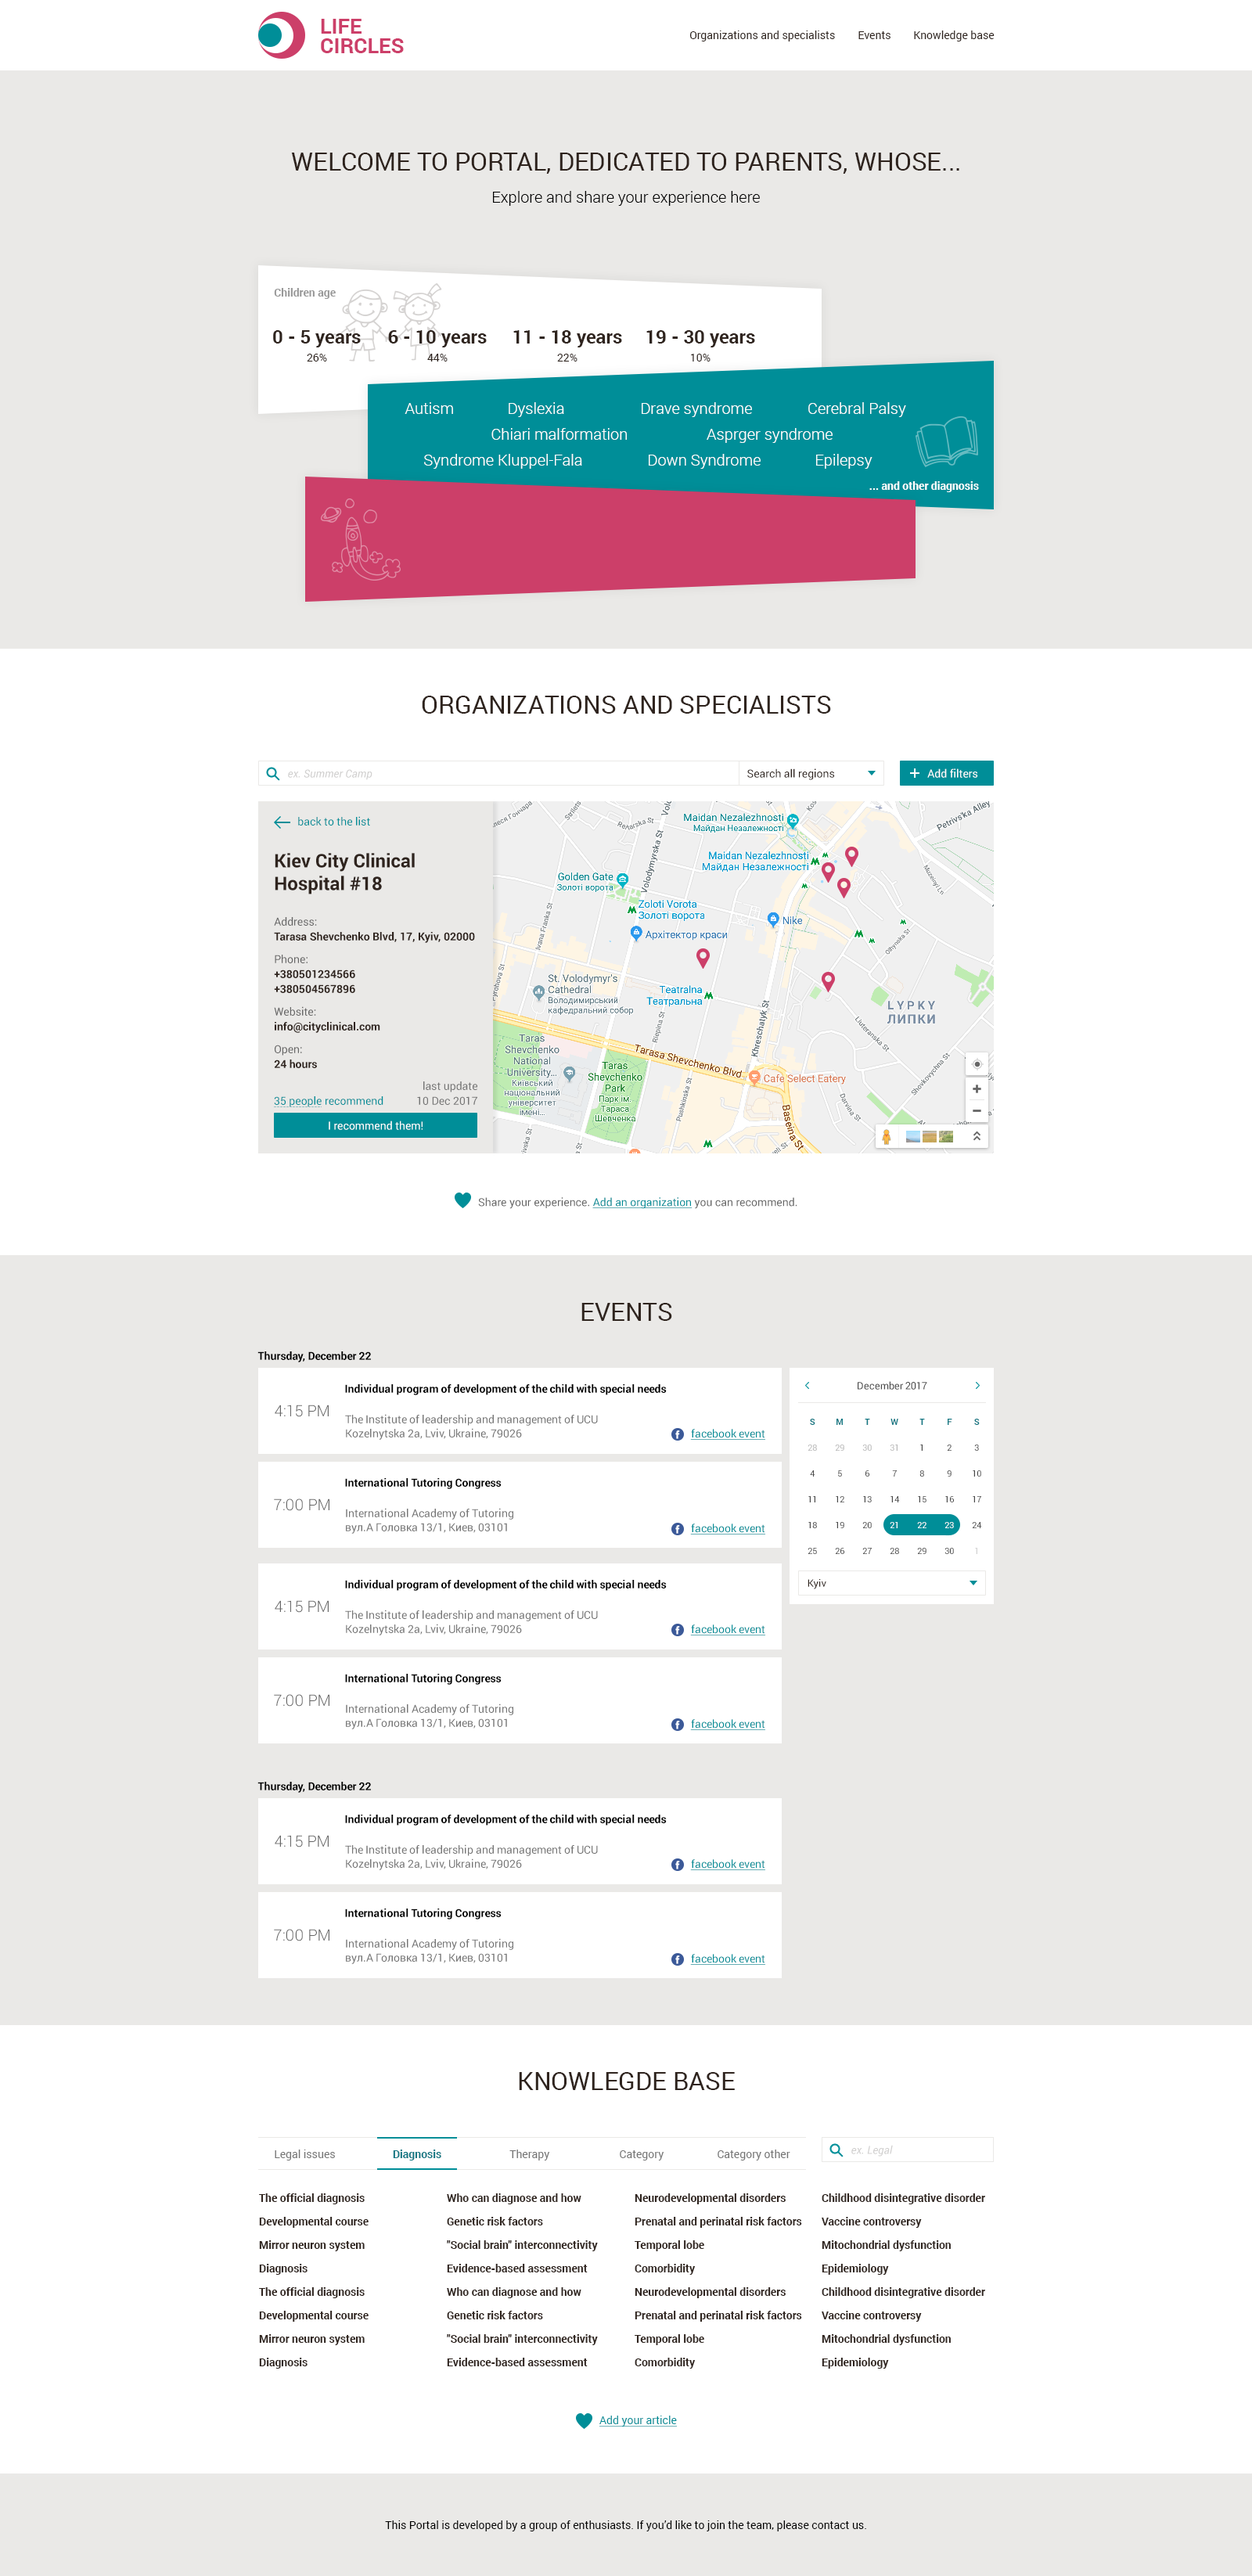
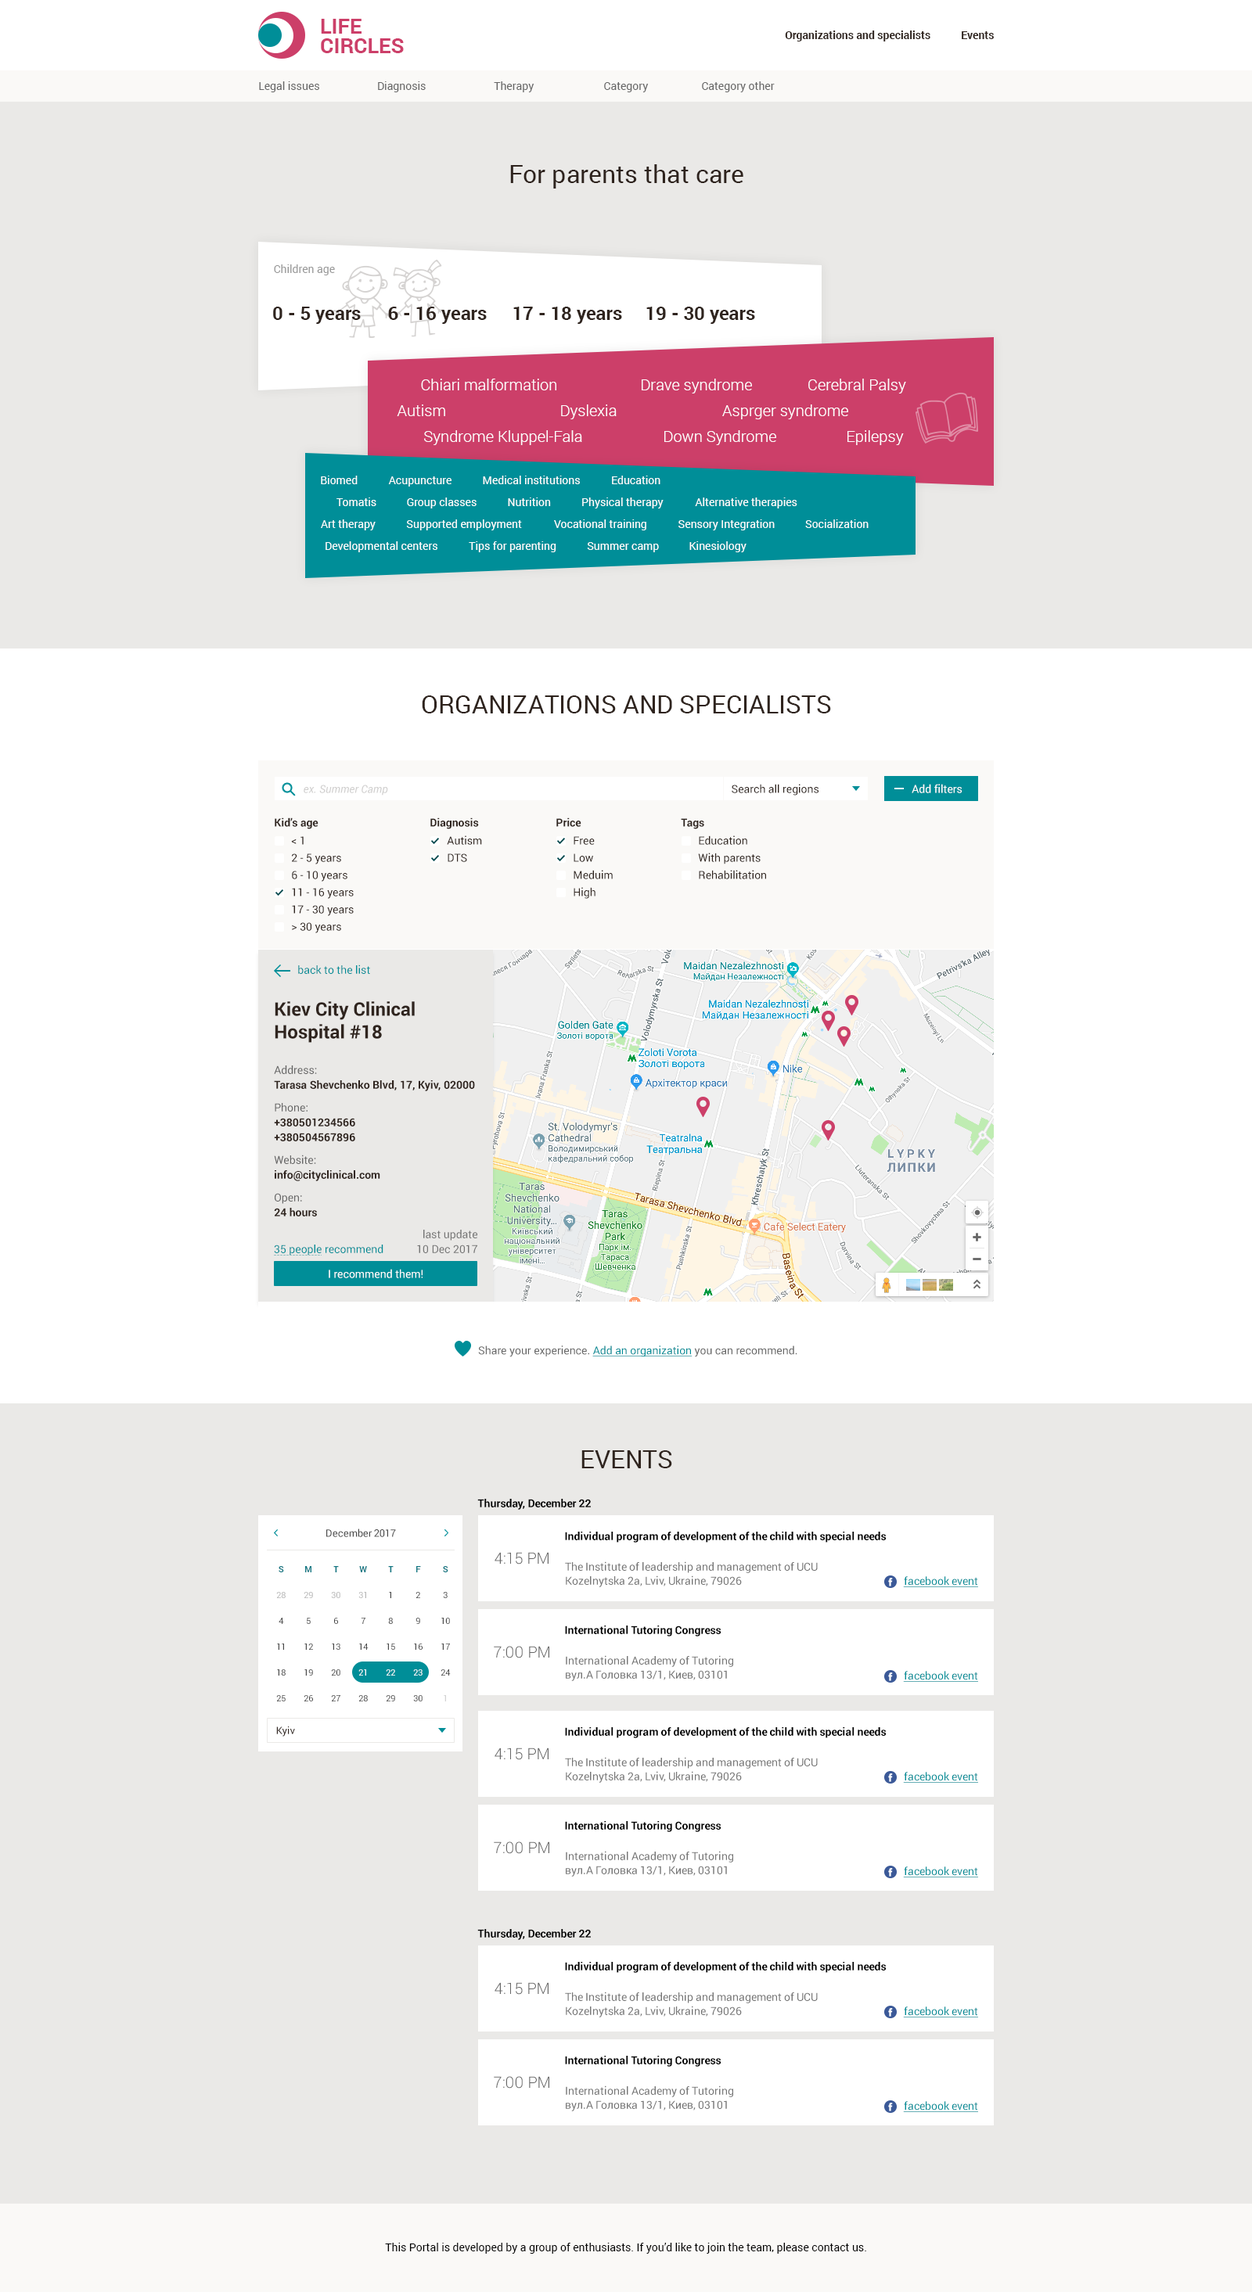
Design change: new navigation, added expanded filters

diff --git a/style.css b/style.css
@@ -8,34 +8,35 @@
 }
 
 #block01 {
-	height: 90px;
-	background-image: url('images/Special-Portal_04.png');
-}
+ 	height: 90px;
+ 	background-image: url('images/image_header.png');
+ }
 
-#block02 {
-	height: 739px;
-	background-color: rgb(234, 233, 231);
-	background-image: url('images/Special-Portal_06.png');
-}
+ #block02 {
+ 	height: 40px;
+ 	background-color: rgb(250, 249, 247);
+ 	background-image: url('images/image_navigation.png');
+ }
 
 #block03 {
-	height: 775px;
-	background-image: url('images/Special-Portal_07.png');
+	height: 699px;
+	background-color: rgb(234, 233, 231);
+	background-image: url('images/image_welcome.png');
 }
 
 #block04 {
-	height: 984px;
-	background-color: rgb(234, 233, 231);
-	background-image: url('images/Special-Portal_08.png');
+	height: 965px;
+	background-image: url('images/image_map.png');
 }
 
 #block05 {
-	height: 573px;
-	background-image: url('images/Special-Portal_09.png');
+	height: 1023px;
+	background-color: rgb(234, 233, 231);
+	background-image: url('images/image_events.png');
 }
 
 #block06 {
-	height: 131px;
-	background-color: rgb(234, 233, 231);
-	background-image: url('images/Special-Portal_10.png');
+	height: 113px;
+	background-color: rgb(250, 249, 247);
+	background-image: url('images/image_footer.png');
 }
